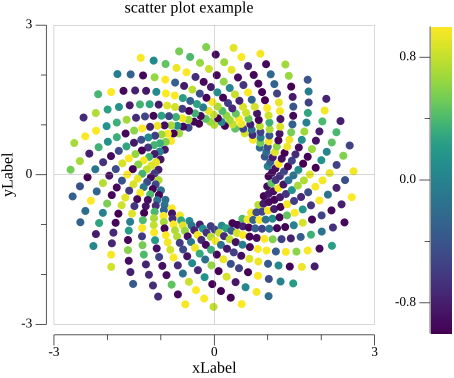
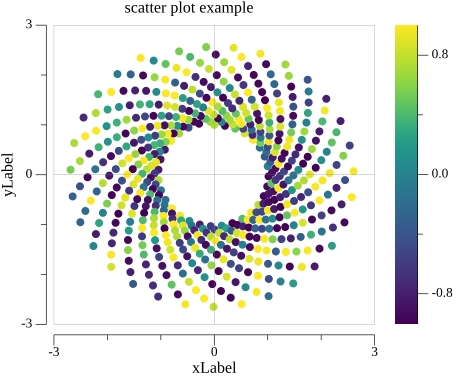
add right-side y-axis to vertical colorbar

diff --git a/plotter/colorbar.go b/plotter/colorbar.go
@@ -27,6 +27,7 @@ func (plt *plotParameters) drawVerticalColorbar(xwidth, ywidth font.Length) *vgi
 	// create a new plot for vertical colorbar
 	p := plot.New()
 	p.HideX()
+	p.HideY()
 	p.Y.Padding = 0
 	c := &plotter.ColorBar{
 		ColorMap: &colormapPalette{
@@ -41,7 +42,7 @@ func (plt *plotParameters) drawVerticalColorbar(xwidth, ywidth font.Length) *vgi
 	// spacing between plot and colorbar
 	spacing := font.Length(1.5) * vg.Centimeter
 
-	img := vgimg.New(xwidth+1.35*spacing, ywidth)
+	img := vgimg.New(xwidth+1.5*spacing, ywidth)
 	dCanvas := draw.New(img)
 
 	// draw the principal plot in the first column
@@ -57,10 +58,35 @@ func (plt *plotParameters) drawVerticalColorbar(xwidth, ywidth font.Length) *vgi
 	p.Draw(draw.Canvas{
 		Canvas: dCanvas,
 		Rectangle: vg.Rectangle{
-			Min: vg.Point{X: (xwidth + 0.3*spacing), Y: vg.Centimeter},
-			Max: vg.Point{X: (xwidth + 1.3*spacing), Y: 0.93 * ywidth},
+			Min: vg.Point{X: (xwidth + 0.3*spacing), Y: 1.25 * vg.Centimeter},
+			Max: vg.Point{X: (xwidth + 0.7*spacing), Y: ywidth - 0.65*vg.Centimeter},
 		},
 	})
+
+	// create a separate plot for the right y-axis
+	axisPlot := plot.New()
+	axisPlot.HideX()
+	axisPlot.Y.Min = plt.colorbar.min
+	axisPlot.Y.Max = plt.colorbar.max
+	axisPlot.Y.Padding = 0
+
+	// draw the y-axis on the right side of the colorbar
+	drawRightYAxis(
+		draw.Canvas{
+			Canvas: dCanvas,
+			Rectangle: vg.Rectangle{
+				Min: vg.Point{
+					X: xwidth + 0.7*spacing,
+					Y: 1.44 * vg.Centimeter,
+				},
+				Max: vg.Point{
+					X: xwidth + 1.0*spacing,
+					Y: ywidth - 0.67*vg.Centimeter,
+				},
+			},
+		},
+		axisPlot.Y,
+	)
 
 	return img
 }
@@ -82,7 +108,7 @@ func (plt *plotParameters) drawHorizontalColorbar(xwidth, ywidth font.Length) *v
 	// spacing between plot and colorbar
 	spacing := font.Length(1.5) * vg.Centimeter
 
-	img := vgimg.New(xwidth, ywidth+spacing)
+	img := vgimg.New(1.05*xwidth, ywidth+spacing)
 	dCanvas := draw.New(img)
 
 	// draw the principal plot in the first row
@@ -98,10 +124,65 @@ func (plt *plotParameters) drawHorizontalColorbar(xwidth, ywidth font.Length) *v
 	p.Draw(draw.Canvas{
 		Canvas: dCanvas,
 		Rectangle: vg.Rectangle{
-			Min: vg.Point{X: vg.Centimeter, Y: 0},
-			Max: vg.Point{X: 0.99 * xwidth, Y: 1.2 * vg.Centimeter},
+			Min: vg.Point{X: 1.22 * vg.Centimeter, Y: 0},
+			Max: vg.Point{X: xwidth, Y: 1.2 * vg.Centimeter},
 		},
 	})
 
 	return img
+}
+
+func drawRightYAxis(c draw.Canvas, a plot.Axis) {
+	marks := a.Tick.Marker.Ticks(a.Min, a.Max)
+
+	// draw axis line
+	x := c.Min.X
+	c.StrokeLine2(a.LineStyle, x, c.Min.Y, x, c.Max.Y)
+
+	// draw ticks
+	major := false
+	length := a.Tick.Length
+	if a.Tick.Width > 0 && a.Tick.Length > 0 {
+		for _, t := range marks {
+			y := c.Y(a.Norm(t.Value))
+			if !c.ContainsY(y) {
+				continue
+			}
+			end := length
+			if t.IsMinor() {
+				end = length / 2
+			}
+			c.StrokeLine2(a.Tick.LineStyle, x, y, x+end, y)
+			if !t.IsMinor() {
+				major = true
+			}
+		}
+	}
+
+	// leave the same spacing used by Gonum between ticks and labels
+	labelX := x + length
+	if major {
+		labelX += a.Tick.Label.Width(" ")
+	}
+
+	// draw labels to the right of the ticks
+	labelStyle := a.Tick.Label
+	labelStyle.XAlign = draw.XLeft
+	for _, t := range marks {
+		if t.IsMinor() {
+			continue
+		}
+		y := c.Y(a.Norm(t.Value))
+		if !c.ContainsY(y) {
+			continue
+		}
+		c.FillText(
+			labelStyle,
+			vg.Point{
+				X: labelX,
+				Y: y + a.Tick.Label.FontExtents().Descent,
+			},
+			t.Label,
+		)
+	}
 }
